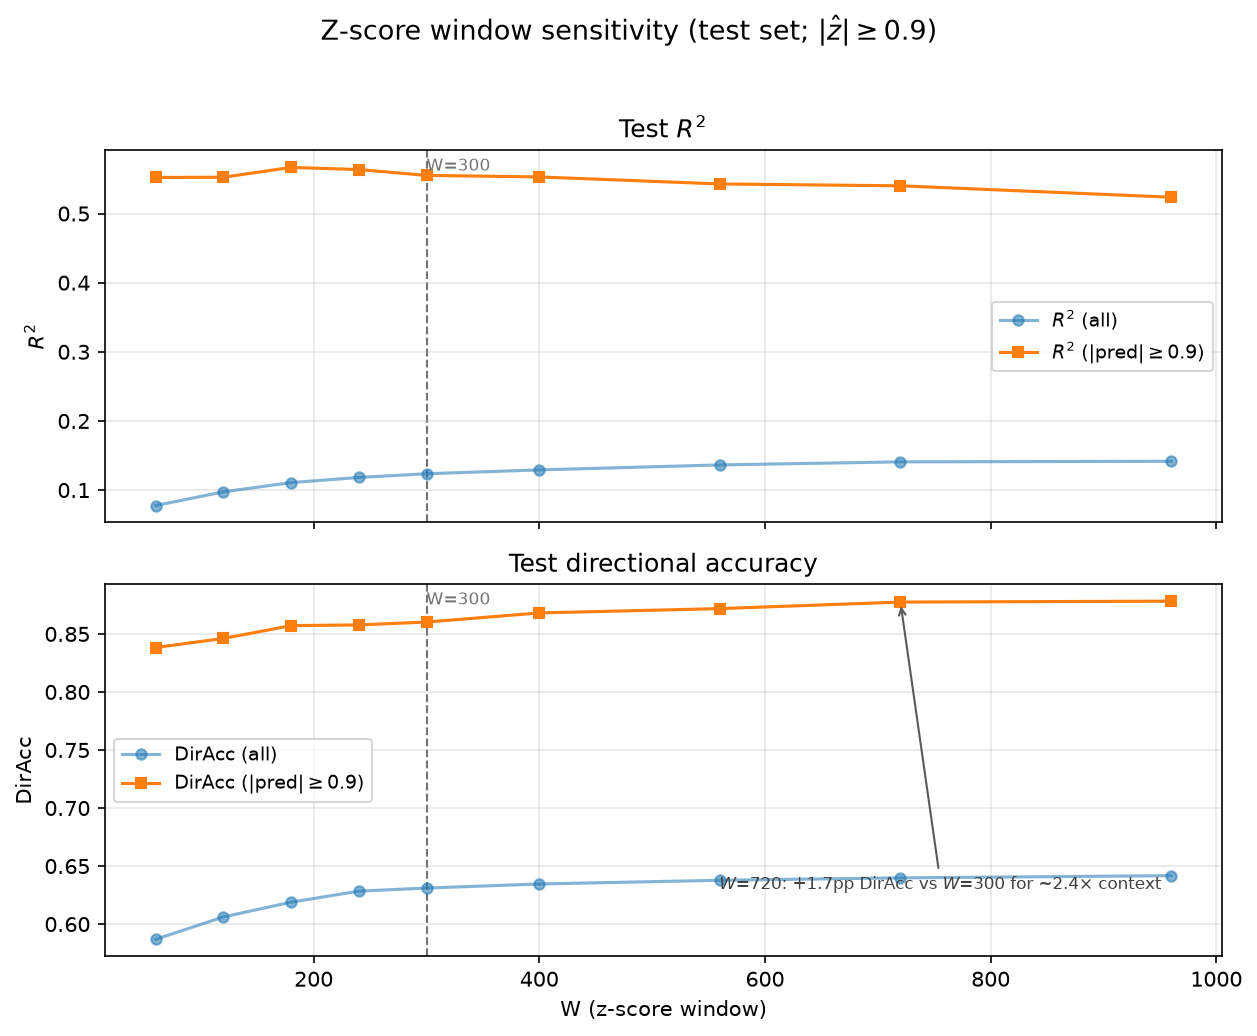
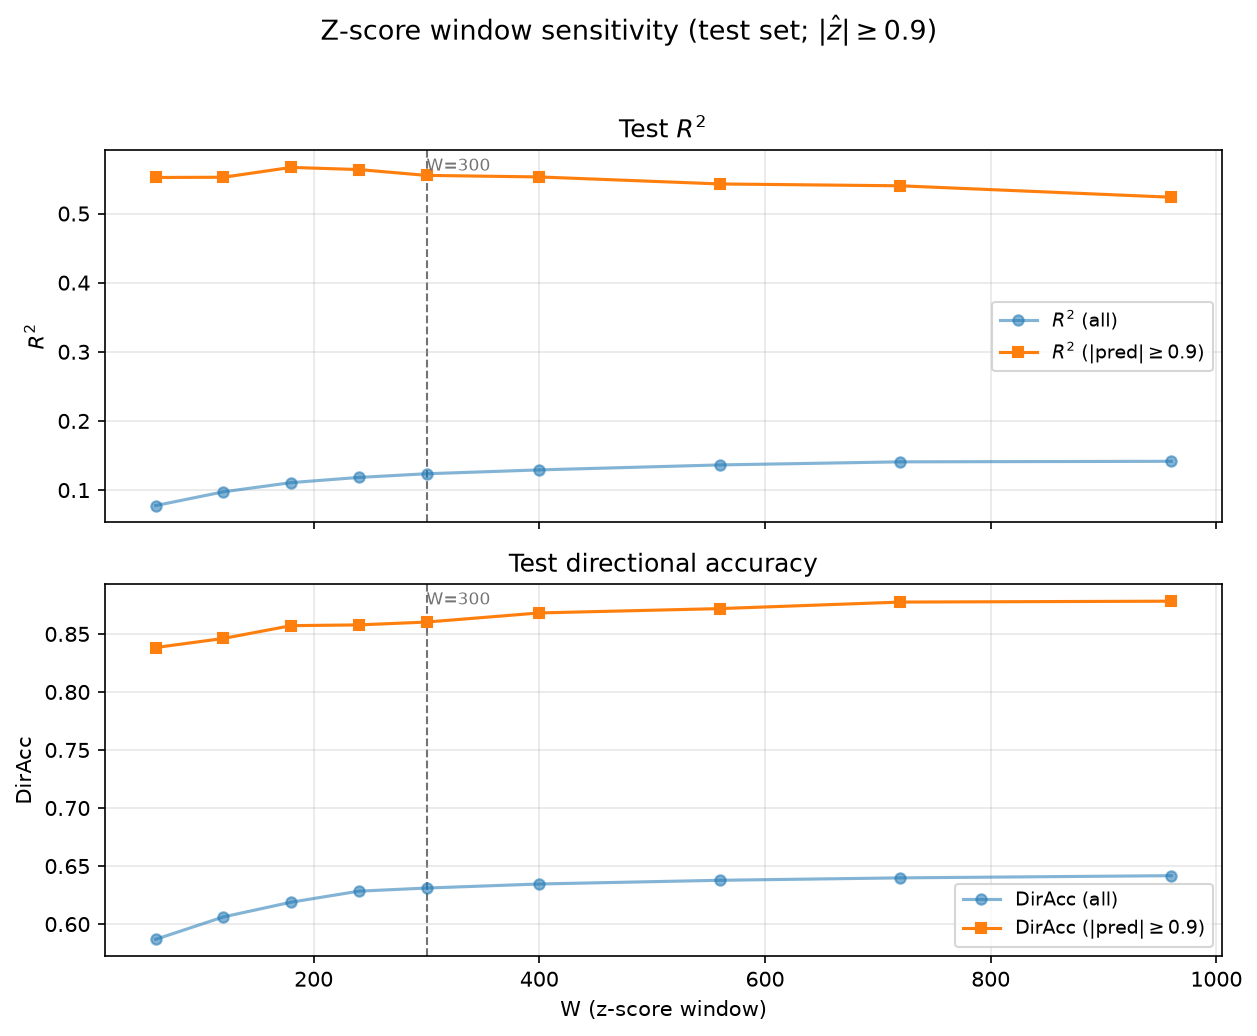
Remove W=720 callout arrow from the z-score window sensitivity figure.

Changed region(s): [[0.6516, 0.834, 0.9618, 0.9266], [0.0931, 0.7104, 0.3103, 0.7722], [0.5895, 0.834, 0.6205, 0.8649]]

diff --git a/statarb/outputs_w_sweep/plot_w_sensitivity.py b/statarb/outputs_w_sweep/plot_w_sensitivity.py
@@ -107,24 +107,6 @@ def main() -> None:
     ax.grid(True, alpha=0.3)
     add_baseline_vline(ax)
 
-    # Annotate diminishing returns past W=300 on the filtered DirAcc panel.
-    if BASELINE_W in set(w.astype(int)):
-        base = d.loc[d["zscore_window"] == BASELINE_W].iloc[0]
-        far = d.loc[d["zscore_window"] >= 700]
-        if len(far):
-            row = far.iloc[0]
-            d_pp = 100.0 * (float(row[dir_col]) - float(base[dir_col]))
-            ax.annotate(
-                rf"$W$={int(row['zscore_window'])}: {d_pp:+.1f}pp DirAcc "
-                rf"vs $W$=300 for ~{int(row['zscore_window'])/BASELINE_W:.1f}$\times$ context",
-                xy=(int(row["zscore_window"]), float(row[dir_col])),
-                xytext=(0.55, 0.18),
-                textcoords="axes fraction",
-                fontsize=8,
-                arrowprops=dict(arrowstyle="->", color="0.35"),
-                color="0.25",
-            )
-
     fig.tight_layout(rect=[0, 0, 1, 0.96])
     fig.savefig(OUT_MAIN, dpi=150, bbox_inches="tight")
     plt.close(fig)
